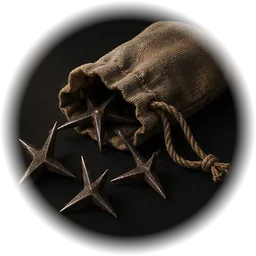
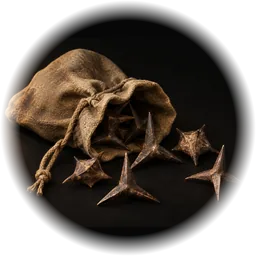
Shinobi: új kép a tüskékhez a felszerelés-választóban
Claude-Session: https://claude.ai/code/session_01YJAgnfThTuPxDD6QNa5h9R

diff --git a/arnyekerdo/sw.js b/arnyekerdo/sw.js
@@ -2,7 +2,7 @@
 // Generált fájl (build), a CACHE neve minden kiadásnál változik, ilyenkor a régi tár törlődik.
 // Az oldal mindig a netről töltődik, ha van net (így mindig a legújabb változat jön), egyébként a tárból.
 // A többi fájl (three.js, betűk, képek, hangok) a tárból jön, és a háttérben frissül.
-const CACHE = 'shinobi-04b45f75e1';
+const CACHE = 'shinobi-36e5b1a9e2';
 const PRE = ["./", "index.html", "three.min.js", "manifest.webmanifest", "favicon-32.png", "icon-180.png", "icon-192.png", "icon-512.png", "icon-512-maskable.png", "nyitokep.jpg", "nyitokep-kicsi.jpg", "fonts/eb-garamond-latin-500-normal.woff2", "fonts/eb-garamond-latin-700-normal.woff2", "fonts/eb-garamond-latin-ext-500-normal.woff2", "fonts/eb-garamond-latin-ext-700-normal.woff2", "fonts/ibm-plex-sans-latin-400-normal.woff2", "fonts/ibm-plex-sans-latin-500-normal.woff2", "fonts/ibm-plex-sans-latin-600-normal.woff2", "fonts/ibm-plex-sans-latin-ext-400-normal.woff2", "fonts/ibm-plex-sans-latin-ext-500-normal.woff2", "fonts/ibm-plex-sans-latin-ext-600-normal.woff2", "hang/b-008780a3.mp3", "hang/b-3168fe8b.mp3", "hang/b-4b8b509b.mp3", "hang/b-66db7e7d.mp3", "hang/b-778fb87d.mp3", "hang/b-954e42d8.mp3", "hang/b-a189d411.mp3", "hang/b-ac2f8cc2.mp3", "hang/f-15d8e9c4.mp3", "hang/f-167dec5b.mp3", "hang/f-246c0fc6.mp3", "hang/f-293818e6.mp3", "hang/f-2a404f4e.mp3", "hang/f-2df255bb.mp3", "hang/f-2f3dd29d.mp3", "hang/f-316f48e1.mp3", "hang/f-32a31ef4.mp3", "hang/f-52b06f88.mp3", "hang/f-52e74d16.mp3", "hang/f-61ac67d5.mp3", "hang/f-6a9bbb33.mp3", "hang/f-6bb3c922.mp3", "hang/f-6e0b6d98.mp3", "hang/f-72179605.mp3", "hang/f-7b2a749a.mp3", "hang/f-8c17e3c0.mp3", "hang/f-8ca80931.mp3", "hang/f-9c1877c6.mp3", "hang/f-9c531983.mp3", "hang/f-a4417321.mp3", "hang/f-a85a88fe.mp3", "hang/f-b44cd20a.mp3", "hang/f-bccaaf99.mp3", "hang/f-c89292e3.mp3", "hang/f-e09f4255.mp3", "hang/f-e54b3755.mp3", "hang/f-e964986e.mp3", "hang/f-f6a08648.mp3", "hang/f-f889a47b.mp3", "hang/f-fa9371bd.mp3", "hang/f-fcdc2d86.mp3", "hang/f-fd4a1404.mp3", "hang/g-15d8e9c4.mp3", "hang/g-167dec5b.mp3", "hang/g-246c0fc6.mp3", "hang/g-293818e6.mp3", "hang/g-2a404f4e.mp3", "hang/g-2df255bb.mp3", "hang/g-32a31ef4.mp3", "hang/g-52e74d16.mp3", "hang/g-61ac67d5.mp3", "hang/g-6a9bbb33.mp3", "hang/g-6bb3c922.mp3", "hang/g-6e0b6d98.mp3", "hang/g-72179605.mp3", "hang/g-7b2a749a.mp3", "hang/g-8c17e3c0.mp3", "hang/g-8ca80931.mp3", "hang/g-9c531983.mp3", "hang/g-a4417321.mp3", "hang/g-b44cd20a.mp3", "hang/g-bccaaf99.mp3", "hang/g-e09f4255.mp3", "hang/g-e54b3755.mp3", "hang/g-f6a08648.mp3", "hang/g-f889a47b.mp3", "hang/g-fcdc2d86.mp3", "hang/g-fd4a1404.mp3", "hang/m-11d979fe.mp3", "hang/m-121c390e.mp3", "hang/m-18c5e140.mp3", "hang/m-259273bb.mp3", "hang/m-263865ce.mp3", "hang/m-2fca2a3e.mp3", "hang/m-30410177.mp3", "hang/m-487733da.mp3", "hang/m-59fa12ee.mp3", "hang/m-661db476.mp3", "hang/m-68702ec0.mp3", "hang/m-6e0c61de.mp3", "hang/m-6e4276d6.mp3", "hang/m-714d0d5e.mp3", "hang/m-778fb87d.mp3", "hang/m-7c001bac.mp3", "hang/m-7d497e4a.mp3", "hang/m-889a0442.mp3", "hang/m-980b9933.mp3", "hang/m-9fad3041.mp3", "hang/m-a15ac05a.mp3", "hang/m-a1ad49c1.mp3", "hang/m-ade887b8.mp3", "hang/m-d2785c68.mp3", "hang/m-d402cdee.mp3", "hang/m-d8963559.mp3", "hang/m-ddd1b57e.mp3", "hang/m-e80cd9cc.mp3", "hang/m-ed55b7f5.mp3", "hang/m-ee2bcdf6.mp3", "hang/m-f065d53c.mp3", "felszereles.jpg", "eszkozok/fukiya.webp", "eszkozok/fust.webp", "eszkozok/kampo.webp", "eszkozok/karom.webp", "eszkozok/kavics.webp", "eszkozok/shuriken.webp", "eszkozok/tanto.webp", "eszkozok/tekko.webp", "eszkozok/tuske.webp"];
 self.addEventListener('install', (e) => {
   e.waitUntil(caches.open(CACHE).then((c) => Promise.all(PRE.map((u) => c.add(new Request(u, { cache: 'reload' })).catch(() => {})))).then(() => self.skipWaiting()));
